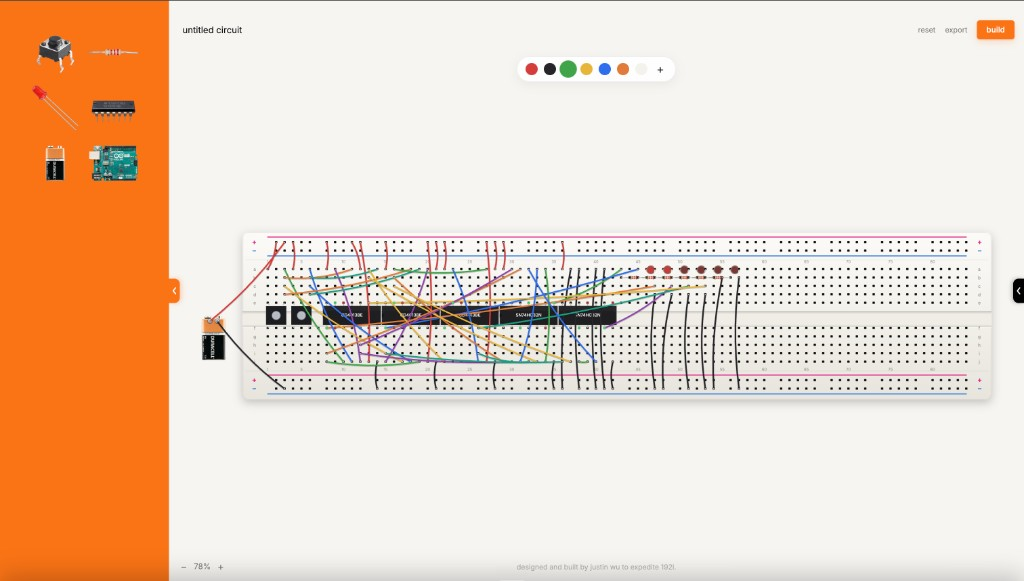
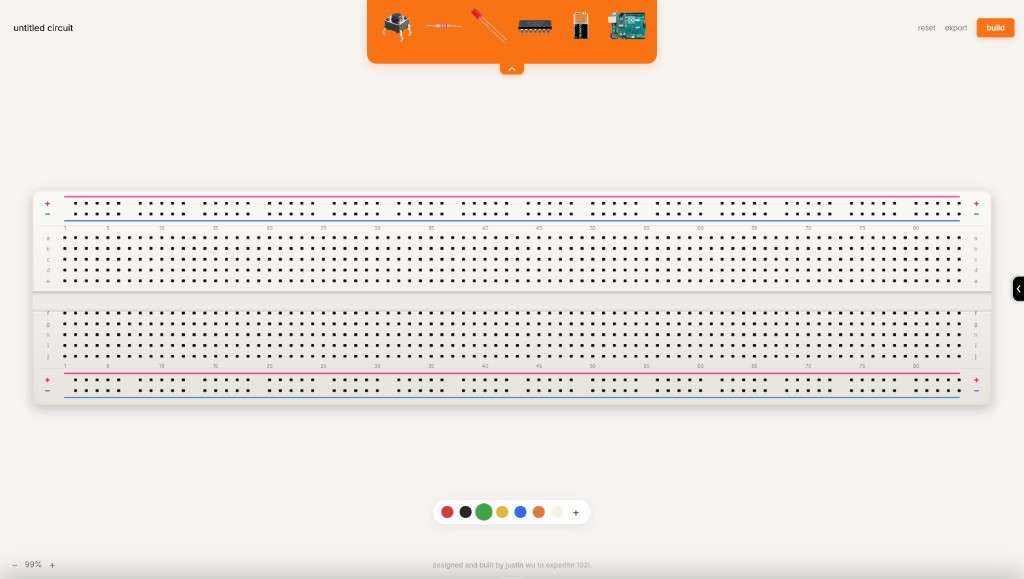
changed to new optimal layout

diff --git a/style.css b/style.css
@@ -22,7 +22,13 @@ body {
 }
 
 /* ---- layout ------------------------------------------------------------- */
-#app { flex: 1; display: flex; min-height: 0; overflow: hidden; position: relative; }
+#app {
+  flex: 1;
+  display: flex;
+  min-height: 0;
+  overflow: hidden;
+  position: relative;
+}
 
 /* ---- stage top bar (moves with the canvas column) ----------------------- */
 #topbar {
@@ -56,8 +62,7 @@ body {
 #projname:focus { outline: none; background: rgba(0, 0, 0, 0.04); }
 .tb-right { display: flex; align-items: center; justify-content: flex-end; gap: 14px; min-width: 0; }
 
-/* ---- side flap toggles (flush with their panels) ------------------------ */
-#menu-toggle,
+/* ---- side / edge flap toggles ------------------------------------------- */
 #circuit-toggle {
   position: absolute;
   top: 50%;
@@ -72,7 +77,6 @@ body {
   border: none;
   transform: translateY(-50%);
   transition: background 0.15s, box-shadow 0.2s ease,
-    left 0.34s cubic-bezier(0.32, 0.72, 0, 1),
     right 0.34s cubic-bezier(0.32, 0.72, 0, 1);
 }
 .tab-chevron {
@@ -80,26 +84,36 @@ body {
   transition: transform 0.22s ease;
 }
 
-/* parts — orange, continuous with palette (no seam line) */
+/* parts tab — hangs under the top palette strip */
 #menu-toggle {
-  left: clamp(148px, 11.5vw, 168px);
-  border-radius: 0 8px 8px 0;
+  position: relative;
+  z-index: 1;
+  width: 36px;
+  height: 16px;
+  display: inline-flex;
+  align-items: center;
+  justify-content: center;
+  padding: 0;
+  cursor: pointer;
+  border: none;
+  border-radius: 0 0 8px 8px;
   color: #fff;
   background: #f97316;
-  box-shadow: 2px 0 8px rgba(249, 115, 22, 0.35);
+  box-shadow: 0 2px 8px rgba(249, 115, 22, 0.35);
+  transition: background 0.15s, box-shadow 0.2s ease, transform 0.12s;
 }
 #menu-toggle:hover {
   color: #fff;
   background: #ea580c;
-  box-shadow: 2px 0 10px rgba(234, 88, 12, 0.42);
+  box-shadow: 0 2px 10px rgba(234, 88, 12, 0.42);
 }
 #menu-toggle:active {
-  transform: translateY(-50%) scale(0.96);
+  transform: scale(0.96);
   background: #c2410c;
 }
-#menu-toggle .tab-chevron { transform: none; }
-#app.palette-hidden #menu-toggle { left: 0; }
-#app.palette-hidden #menu-toggle .tab-chevron { transform: rotate(180deg); }
+/* chevron points up when open (hide), down when closed (show) */
+#menu-toggle .tab-chevron { transform: rotate(90deg); }
+#app.palette-hidden #menu-toggle .tab-chevron { transform: rotate(-90deg); }
 
 /* circuit — black, continuous with simulator (no seam line) */
 #circuit-toggle {
@@ -124,31 +138,42 @@ body {
 }
 #app.schematic-open #circuit-toggle .tab-chevron { transform: rotate(180deg); }
 
-/* ---- palette ------------------------------------------------------------ */
+/* ---- palette (top of stage overlay — tracks breadboard column width) ---- */
+#palette-dock {
+  position: absolute;
+  left: 50%;
+  top: 0;
+  z-index: 60;
+  display: flex;
+  flex-direction: column;
+  align-items: center;
+  transform: translateX(-50%);
+  transition: transform 0.34s cubic-bezier(0.32, 0.72, 0, 1);
+  pointer-events: none;
+}
+#palette-dock > * { pointer-events: auto; }
+/* Slide the strip up; leave the tab peeking at the top edge */
+#app.palette-hidden #palette-dock {
+  transform: translateX(-50%) translateY(calc(-100% + 16px));
+}
 #palette {
-  flex: 0 0 clamp(148px, 11.5vw, 168px);
-  border-right: none;
+  height: auto;
+  border: none;
+  border-radius: 0 0 14px 14px;
   background: #f97316;
   display: flex;
   flex-direction: column;
-  min-height: 0;
-  transition: margin-left 0.34s cubic-bezier(0.32, 0.72, 0, 1);
-}
-/* Slide the parts panel off to the left (stays visible while moving) */
-#app.palette-hidden #palette {
-  margin-left: calc(-1 * clamp(148px, 11.5vw, 168px));
-  pointer-events: none;
+  box-shadow: 0 4px 18px rgba(249, 115, 22, 0.22);
 }
 #grid {
-  flex: 1;
-  overflow: hidden;
+  flex: 0 0 auto;
+  overflow: visible;
   display: grid;
-  grid-template-columns: repeat(2, minmax(0, 64px));
-  gap: 8px 10px;
+  grid-template-columns: repeat(6, minmax(0, 56px));
+  gap: 6px 12px;
   justify-content: center;
-  /* Sit under the stage topbar, a bit higher than before */
-  padding: 40px 8px 24px;
-  align-content: start;
+  padding: 12px 16px 28px;
+  align-content: center;
 }
 
 .cell {
@@ -186,19 +211,20 @@ body {
 .cell .tip {
   position: absolute;
   left: 50%;
+  top: auto;
   bottom: 0;
-  transform: translate(-50%, 70%);   /* hang the tag below the item */
+  transform: translate(-50%, 115%);
   font-size: 0.58rem;
   font-weight: 400;
   letter-spacing: 0;
   line-height: 1.2;
   text-align: center;
-  color: rgba(255, 255, 255, 0.85);
+  color: #fff;
   background: transparent;
   border-radius: 0;
   padding: 2px 0;
   width: max-content;
-  max-width: 96%;
+  max-width: 120%;
   opacity: 0;
   pointer-events: none;
   transition: opacity 0.15s;
@@ -464,11 +490,12 @@ body {
 #canvas.wiring { cursor: crosshair; }
 #canvas.panning { cursor: grabbing; }
 
-/* ---- wire color picker (centered) --------------------------------------- */
+/* ---- wire color picker (fixed under the board area) --------------------- */
 #wirebar {
   position: absolute;
-  top: 12px;
   left: 50%;
+  top: auto;
+  bottom: 80px;
   transform: translateX(-50%);
   z-index: 12;
   display: flex;
@@ -665,32 +692,7 @@ body {
 }
 
 /* wirebar centered on stage */
-#app.schematic-open #wirebar {
-  top: 12px;
-  left: 50%;
-  transform: translateX(-50%);
-  max-width: calc(100% - 48px);
-  height: 28px;
-  display: flex;
-  align-items: center;
-}
-#app.schematic-open .wb-swatches {
-  transform: none;
-  flex-wrap: nowrap;
-  padding: 5px 10px;
-  gap: 7px;
-}
-#app.schematic-open .wb-sw {
-  width: 15px;
-  height: 15px;
-}
-#app.schematic-open .wb-custom {
-  width: 16px;
-  height: 16px;
-}
-#app.schematic-open .wb-plus {
-  font-size: 15px;
-}
+/* wirebar size stays constant whether or not the schematic is open */
 #app.schematic-open #credits {
   left: 50%;
   right: auto;

diff --git a/main.js b/main.js
@@ -110,11 +110,11 @@ function fitView() {
   }
 
   const b = contentBounds();
-  // Reserve chrome so the board centers in the clear canvas under the wirebar
+  // Reserve chrome so the board centers with room for the fixed wirebar underneath
   const padL = 48;
   const padR = 48;
-  const padT = 52;
-  const padB = 48;
+  const padT = 28;
+  const padB = 72;
   const availW = Math.max(80, vw - padL - padR);
   const availH = Math.max(80, vh - padT - padB);
 
@@ -1453,10 +1453,32 @@ function fitDuring(ms = 360) {
   };
   layoutAnim = requestAnimationFrame(step);
 }
-document.getElementById('menu-toggle').addEventListener('click', () => {
-  document.getElementById('app').classList.toggle('palette-hidden');
-  fitDuring(360);
-});
+(() => {
+  const app = document.getElementById('app');
+  const toggle = document.getElementById('menu-toggle');
+  let autoCloseTimer = 0;
+
+  const clearAutoClose = () => {
+    if (autoCloseTimer) {
+      clearTimeout(autoCloseTimer);
+      autoCloseTimer = 0;
+    }
+  };
+
+  toggle.addEventListener('click', () => {
+    clearAutoClose();
+    app.classList.toggle('palette-hidden');
+  });
+
+  // Intro: stay closed 1s, drop open, then tuck away after 1s
+  autoCloseTimer = setTimeout(() => {
+    app.classList.remove('palette-hidden');
+    autoCloseTimer = setTimeout(() => {
+      autoCloseTimer = 0;
+      app.classList.add('palette-hidden');
+    }, 1000);
+  }, 1000);
+})();
 (() => {
   const el = document.getElementById('projname');
   const DEFAULT_NAME = 'untitled circuit';

diff --git a/index.html b/index.html
@@ -12,17 +12,18 @@
 </head>
 <body>
 
-  <div id="app">
-    <button id="menu-toggle" title="hide/show parts" aria-label="toggle parts panel">
-      <svg class="tab-chevron" viewBox="0 0 8 12" width="8" height="12" aria-hidden="true">
-        <path d="M5.8 1.5 2.2 6 5.8 10.5" fill="none" stroke="currentColor" stroke-width="1.7" stroke-linecap="round" stroke-linejoin="round" />
-      </svg>
-    </button>
-    <aside id="palette">
-      <div id="grid"></div>
-    </aside>
-
+  <div id="app" class="palette-hidden">
     <div id="stage">
+      <div id="palette-dock">
+        <aside id="palette">
+          <div id="grid"></div>
+        </aside>
+        <button id="menu-toggle" title="hide/show parts" aria-label="toggle parts panel">
+          <svg class="tab-chevron" viewBox="0 0 8 12" width="8" height="12" aria-hidden="true">
+            <path d="M5.8 1.5 2.2 6 5.8 10.5" fill="none" stroke="currentColor" stroke-width="1.7" stroke-linecap="round" stroke-linejoin="round" />
+          </svg>
+        </button>
+      </div>
       <header id="topbar">
         <div class="tb-left">
           <input id="projname" value="untitled circuit" spellcheck="false" />